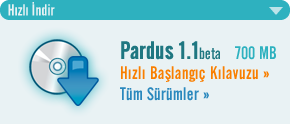
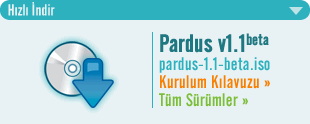
ve ana sayfa :)

diff --git a/web/ng/stil.css b/web/ng/stil.css
@@ -19,7 +19,6 @@ body {
     background-image:url('images/HeadLogo.png');
     background-repeat:no-repeat;
     background-position: 0px -2px;
-    height:119px;
 }
 
 #header-bugzilla {
@@ -32,7 +31,7 @@ body {
 
 #menu {
     font-weight:bold;
-    font-size:10px;
+    font-size:11px;
     padding-top:97px;
     padding-left:200px;
     float:left;
@@ -50,7 +49,7 @@ hr {
     float:right;
     padding-right:3px;
     padding-top:97px;
-    
+    margin-bottom:-10px;
 }
 
 .searchresults {
@@ -79,20 +78,20 @@ hr {
 }
 
 #pardus-11 {
-    float:left;
+    !float:left;
     font-size: 16px;
     color: #297190;
     padding-left:30px;
     padding-top:130px;
-    background-image:url('images/newdesign/p10.png');
+    background-image:url('images/newdesign/splash-11.png');
     background-repeat:no-repeat;
     background-position: 0px 0px;
-    width: 450px;
-    height: 100px;
+    width: 610px;
+    height: 230px;
 }
 
 #kutular {
-    width:315px;
+    width:310px;
     vertical-align:top;
 }
 
@@ -108,7 +107,7 @@ hr {
 }
 
 #pardus-indir {
-    background-image:url('images/newdesign/dock-hizli-indir-10.png');
+    background-image:url('images/newdesign/dock-hizli-indir-11.png');
     background-repeat:no-repeat;
     background-position: 0px 0px;
     height:124px;
@@ -132,15 +131,20 @@ hr {
 #ayrintilar {
     background-image:url('images/newdesign/header-ayrintilar.png');
     background-repeat:no-repeat;
-    background-position: 0px 0px;
-    padding:5px;
+    background-position: 0 0;
+    background-color:#E8F2F4;
+    !padding:5px;
+    !padding-left:5px;
     padding-top:26px;
     color: #297190;
     height:auto;
-    width:470px;
+    width:614px;
 }
 
-
+#haber {
+    padding:5px;
+    padding-top:0px;
+}
 #footer-forpw {
     background-image:url('images/newdesign/footer-standart.png');
     background-repeat:no-repeat;
@@ -158,15 +162,17 @@ hr {
 }
 
 #navi {
-    text-align:justify;
+    text-align:center;
 }
 #ana-butonlar img {
-    margin-left:1.5px;
+    !margin-left:1.5px;
+    margin:0;
+    padding:0;
     border:0;
 }
 
 #boxdetay1 {
-    width:210px;
+    !width:210px;
 }
 
 #middleeast {
@@ -242,7 +248,7 @@ a:hover {
 }
 
 #mainBody {
-        background-color:#FFF;
+    background-color:#FFF;
     height: 100%;
     vertical-align:top;
 }

diff --git a/web/ng/scripts/main.js b/web/ng/scripts/main.js
@@ -8,8 +8,8 @@
             var newData = originalRequest.responseText;
             $('haber').innerHTML = "";
             $('haber').innerHTML = newData;
-            new Effect.Highlight('haber',{startcolor:'#CCE0E6', endcolor:'#FFFFFF'});
-            $('haber').style.background = "#FFF";
+            new Effect.Highlight('haber',{startcolor:'#3991C0', endcolor:'#E8F2F4'});
+            $('haber').style.background = "#E8F2F4";
         }
 
         function get_url(linker,diver) {

diff --git a/web/ng/index-data.php b/web/ng/index-data.php
@@ -1,11 +1,9 @@
     <tr>
-        <td id="pardus-11">
-            <div id="boxdetay1">
+        <td id="pardus-11" colspan="2">
+           <!-- <div id="boxdetay1">
                 Pardus 1.1 Muhteşem :)
             </div>
-        </td>
-        <td id="middleeast">
-            <img src="images/newdesign/pgon.png" alt="">  <img src="images/newdesign/basin-odasi.png" alt="">
+            -->
         </td>
         <td id="kutular">
             <div id="pardus-nedir">
@@ -16,17 +14,13 @@
     </tr>
 
     <tr>
-        <td id="navi" colspan=3>
-            <div id="ana-butonlar">
-                <a href="?page=Bireysel"><img src="images/newdesign/button-bireysel-kullanici.png" border="0" alt="" /></a>
-                <a href="?page=Kurumsal"><img src="images/newdesign/button-kurumsal-kullanici.png" border="0" alt="" /></a>
-                <a href="?page=Gelistirici"><img src="images/newdesign/button-gelistirici.png" border="0" alt="" /></a>
-            </div>
-        </td>
+        <td><a href="?page=Bireysel"><img src="images/newdesign/button-bireysel-kullanici.png" border="0" alt="" /></a></td>
+        <td><a href="?page=Kurumsal"><img src="images/newdesign/button-kurumsal-kullanici.png" border="0" alt="" /></a></td>
+        <td><a href="?page=Gelistirici"><img src="images/newdesign/button-gelistirici.png" border="0" alt="" /></a></td>
     </tr>
 
     <tr>
-        <td id="icerik" colspan=2>
+        <td id="icerik" colSpan="2">
             <div id="ayrintilar">
                 <div id="haber">
                 <?php

diff --git a/web/ng/langs/tr.php b/web/ng/langs/tr.php
@@ -16,4 +16,5 @@
     define ("NO_RECORD_FOUND_BUT_YOU_CAN_LOOK_AT_GOOGLE_RESULTS","Hiç kayıt bulunamadı.");
     define ("PARDUS_REGISTER","Pardus TUBITAK/UEKAE 'nin tescilli markasıdır.");
     define ("SEARCH","ara");
+    define ("WRONG_LINK","Hatalı Link");
 ?>
